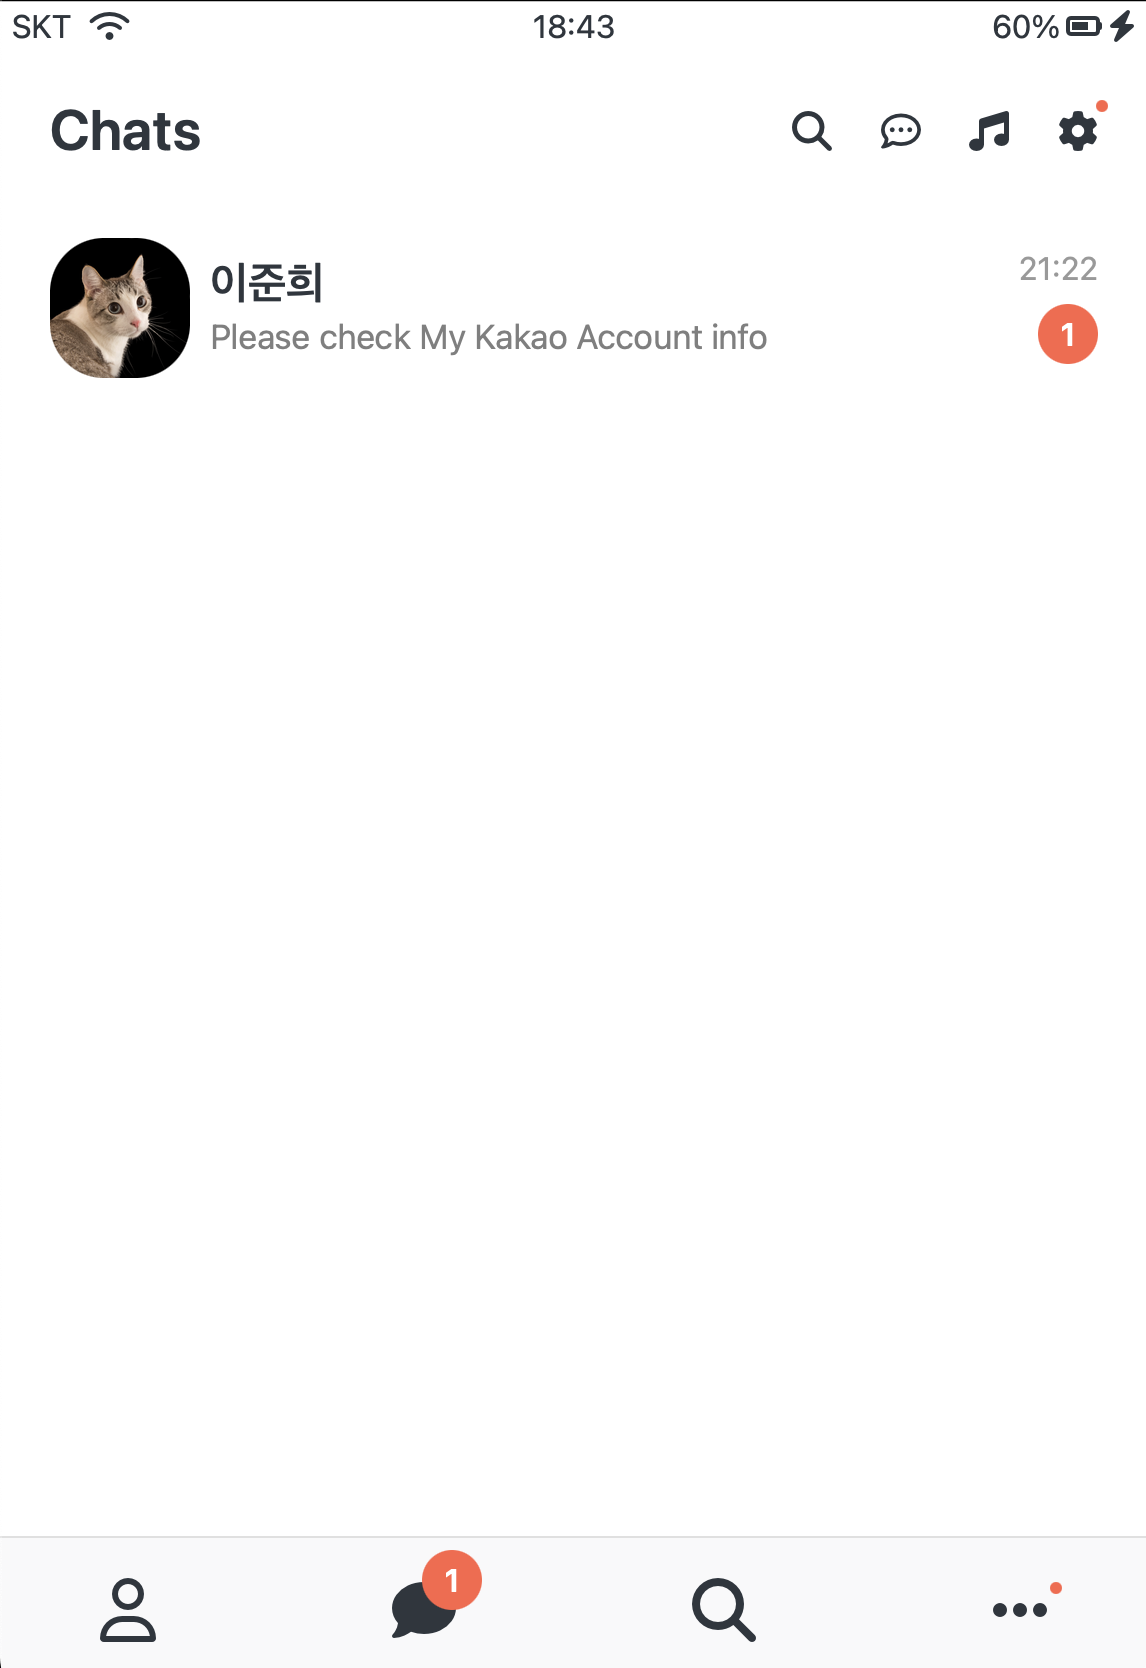
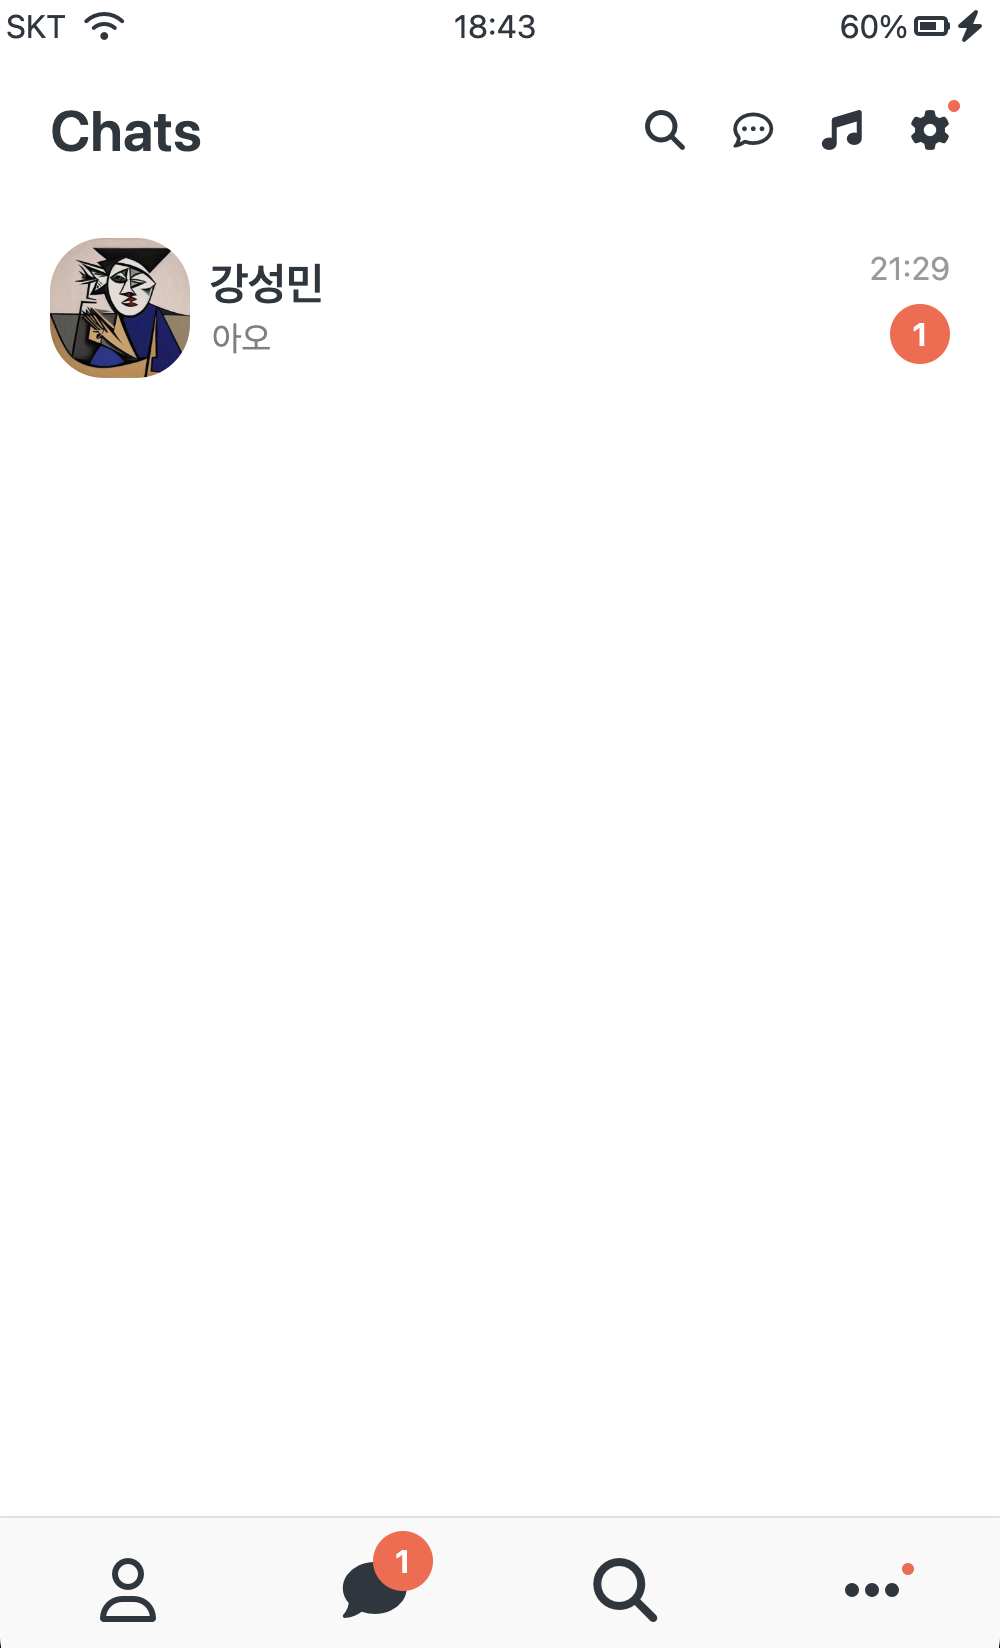
minor fixes

diff --git a/chat.html b/chat.html
@@ -25,12 +25,12 @@
 
     <header class="alt-header">
       <div class="alt-header__column">
-        <a href="more.html">
+        <a href="chats.html">
           <span><i class="fa-solid fa-chevron-left fa-2x"></i></span>
         </a>
       </div>
       <div class="alt-header__column">
-        <h1 class="alt-header__chat-title">이준희</h1>
+        <h1 class="alt-header__chat-title">강성민</h1>
       </div>
       <div class="alt-header__column">
         <span><i class="fas fa-search fa-2x"></i></span>
@@ -43,20 +43,30 @@
     </main>
 
     <div class="message">
-      <img src="img/domestic-cat.avif" />
+      <img src="img/seong-min.png" />
       <div class="message__content">
-        <span class="message__author">이준희</span>
+        <span class="message__author">강성민</span>
         <div class="message__info">
-          <span class="message__buble">Hi!</span>
-          <span class="message__time">21:27</span>
+          <span class="message__buble">뭐함?</span>
+          <span class="message__time">13:27</span>
         </div>
       </div>
     </div>
     <div class="message message--own">
       <div class="message__content">
         <div class="message__info">
-          <span class="message__buble">Hi nice to meet you!</span>
+          <span class="message__buble">알빠임?</span>
           <span class="message__time">21:28</span>
+        </div>
+      </div>
+    </div>
+    <div class="message">
+      <img src="img/seong-min.png" />
+      <div class="message__content">
+        <span class="message__author">강성민</span>
+        <div class="message__info">
+          <span class="message__buble">아오</span>
+          <span class="message__time">21:29</span>
         </div>
       </div>
     </div>

diff --git a/css/components/user-component.css b/css/components/user-component.css
@@ -1,45 +1,46 @@
-.user-component, 
+.user-component,
 .user-component__column:first-child {
-    display: flex;
-    align-items: center;
+  display: flex;
+  align-items: center;
 }
 .user-component {
-    justify-content: space-between;
+  justify-content: space-between;
 }
 .user-component__column:last-child {
-    color: rgba(0, 0, 0, 0.4);
-    display: flex;
-    flex-direction: column;
-    align-items: flex-end;
+  color: rgba(0, 0, 0, 0.4);
+  display: flex;
+  flex-direction: column;
+  align-items: flex-end;
 }
 .user-component__avatar {
-    width: 70px;
-    height: 70px;
-    border-radius: 27px;
-    margin-right: 10px;
+  width: 70px;
+  height: 70px;
+  border-radius: 27px;
+  margin-right: 10px;
 }
 .user-component__avatar--sm {
-    width: 60px;
-    height: 60px;
-    border-radius: 25px;
+  width: 60px;
+  height: 60px;
+  border-radius: 25px;
 }
 .user-component__avatar--xl {
-    width: 80px;
-    height: 80px;
+  width: 80px;
+  height: 80px;
 }
 .user-component__title {
-    font-weight: 600;
-    font-size: 22px;
+  font-weight: 600;
+  font-size: 22px;
 }
 .user-component__subtitle {
-    margin-top: 8px;
-    font-size: 17px;
-    color: rgba(0, 0, 0, 0.5);
+  margin-top: 8px;
+  font-size: 17px;
+  color: rgba(0, 0, 0, 0.5);
+  margin-left: 1px;
 }
 .user-component__title--not-bold {
-    font-weight: 400;
+  font-weight: 400;
 }
 .user-component__time {
-    margin-bottom: 10px;
-    display: block;
+  margin-bottom: 10px;
+  display: block;
 }

diff --git a/css/components/badge.css b/css/components/badge.css
@@ -1,23 +1,26 @@
 .badge {
-    background-color: tomato;
-    color: white;
-    font-weight: 600;
-    width: 30px;
-    height: 30px;
-    border-radius: 15px;
-    display: flex;
-    justify-content: center;
-    align-items: center;
+  background-color: tomato;
+  color: white;
+  font-weight: 600;
+  width: 30px;
+  height: 30px;
+  border-radius: 15px;
+  display: flex;
+  justify-content: center;
+  align-items: center;
 }
 .badge__small {
-    background-color: tomato;
-    display: flex;
-    width: 6px;
-    height: 6px;
-    border-radius: 3px;
-    justify-content: center;
-    align-items: center;
-    position: absolute;
-    top: 24px;
-    right: 20px;
+  background-color: tomato;
+  display: flex;
+  width: 6px;
+  height: 6px;
+  border-radius: 3px;
+  justify-content: center;
+  align-items: center;
+  position: absolute;
+  top: 24px;
+  right: 20px;
+}
+.non-alert {
+  background-color: white;
 }

diff --git a/chats.html b/chats.html
@@ -39,16 +39,17 @@
         <div class="user-component">
           <div class="user-component__column">
             <img
-              src="img/domestic-cat.avif"
+              src="img/seong-min.png"
               class="user-component__avatar"
             />
             <div class="user-component__text">
-              <h4 class="user-component__title">이준희</h4>
-              <h6 class="user-component__subtitle">Please check My Kakao Account info</h4>
+              <h4 class="user-component__title">강성민</h4>
+              <h6 class="user-component__subtitle">아오</h6>
+              </h4>
             </div>
           </div>
           <div class="user-component__column">
-              <span class="user-component__time">21:22</span>
+              <span class="user-component__time">21:29</span>
               <span class="badge">1</span>
           </div>
         </div>
